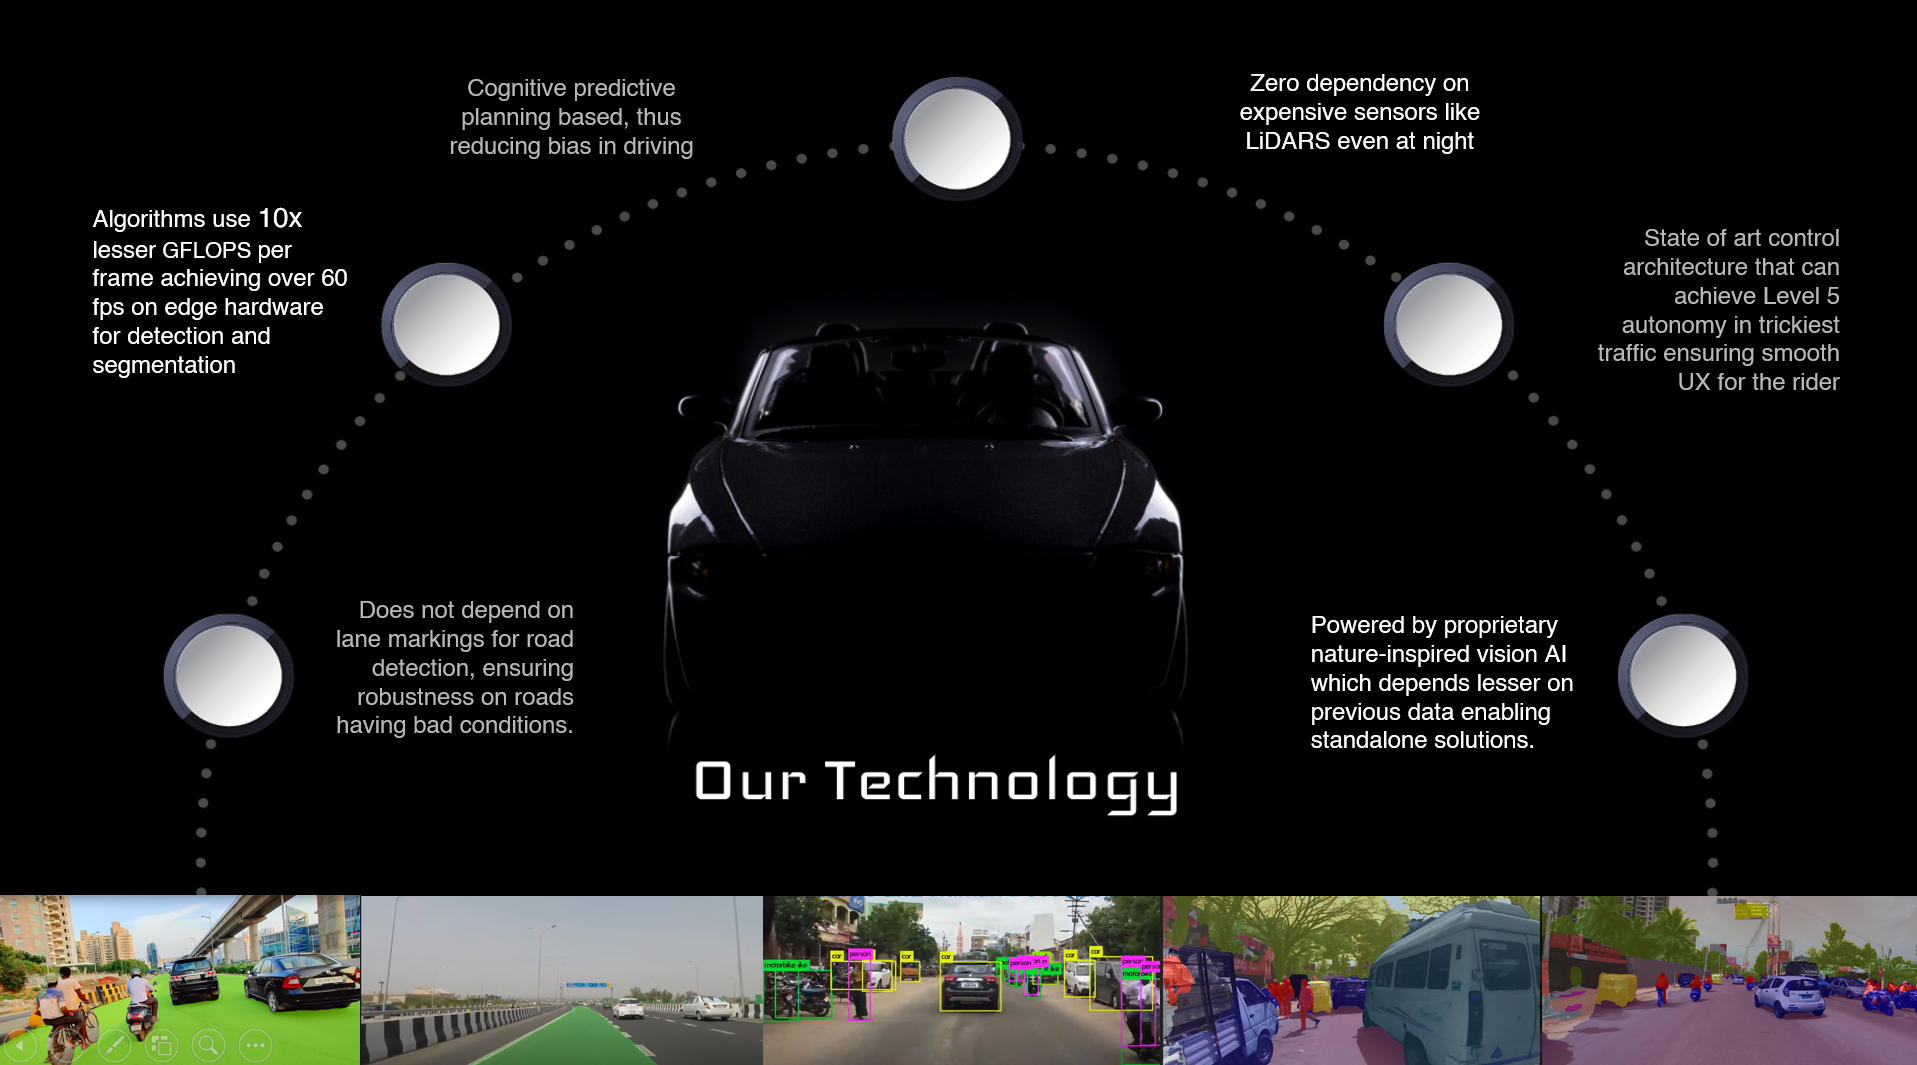
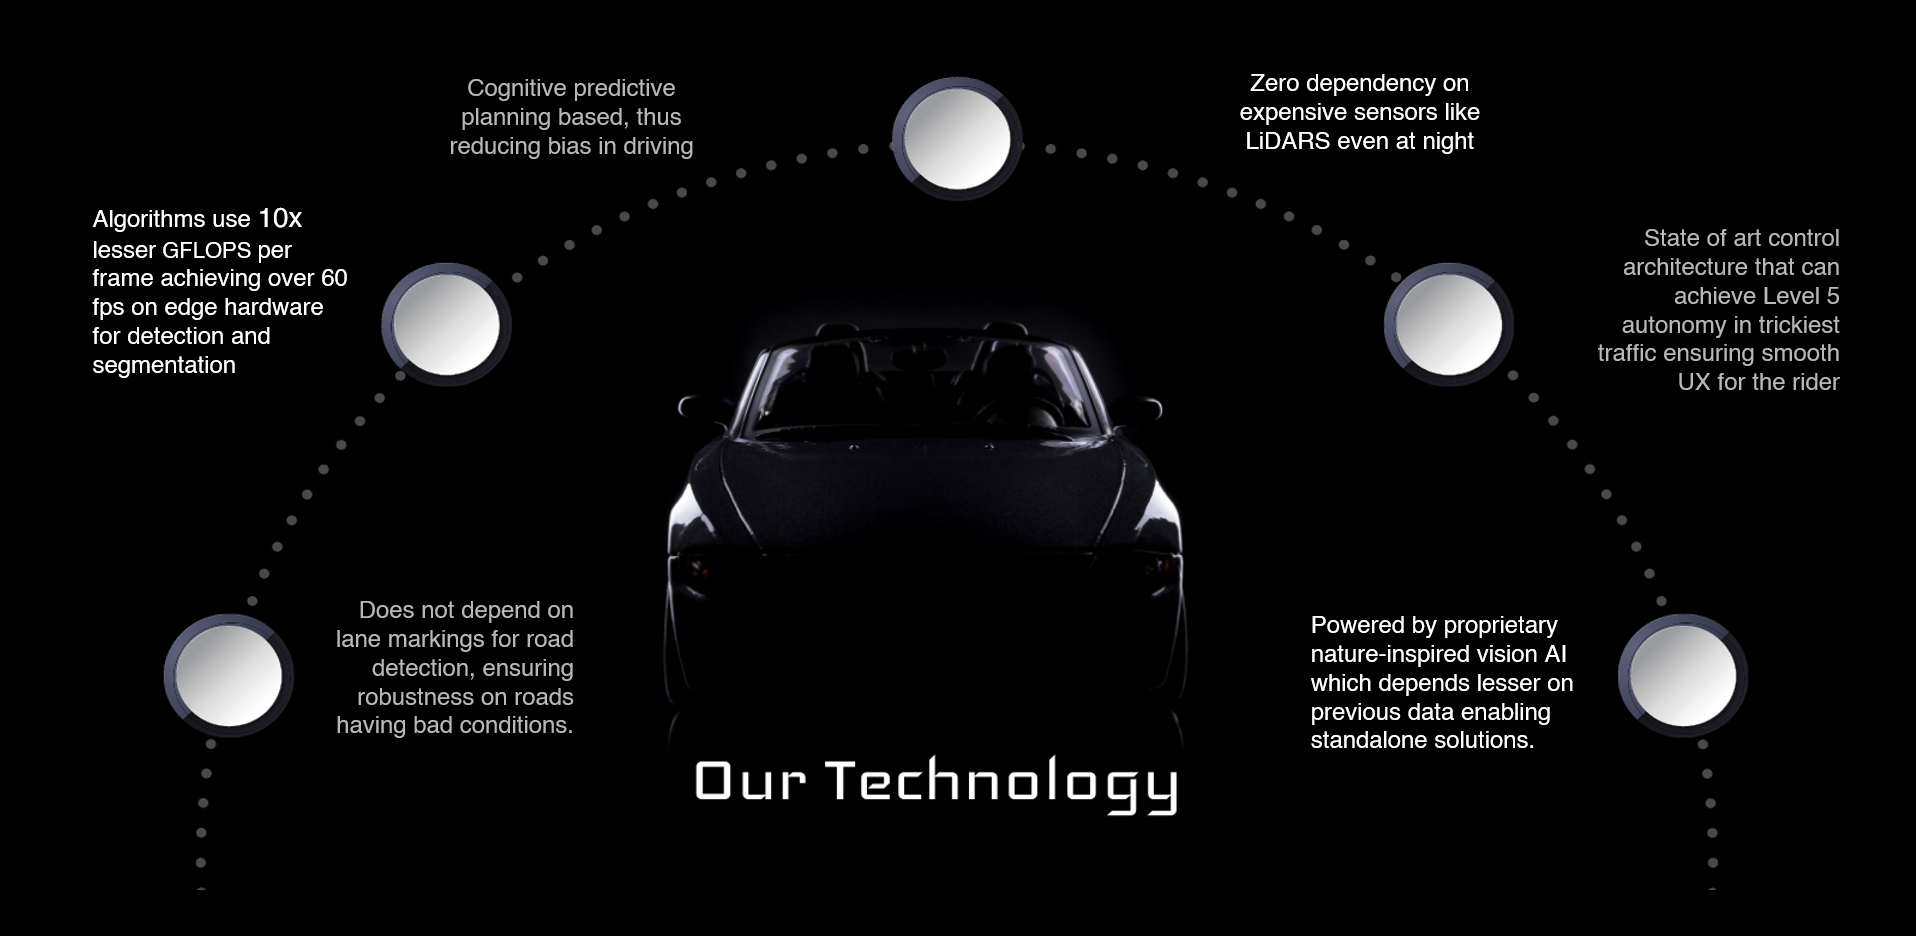
x

diff --git a/index.html b/index.html
@@ -50,7 +50,7 @@
                         </ul>
                         <ul class="nav navbar-nav">
                             <li class="nav-item"><a class="nav-link active text-center" data-bs-hover-animate="pulse" href="about">About</a></li>
-                            <li class="nav-item"><a class="nav-link" href="http://blog.minuszero.in">BLOG</a></li>
+                            <li class="nav-item"></li>
                             <li class="nav-item"><a class="nav-link active text-center" data-bs-hover-animate="pulse" href="careers">Careers</a></li>
                             <li class="nav-item"><a class="nav-link active" data-bs-hover-animate="pulse" href="contact" style="text-align: center;">Contact</a></li>
                         </ul>
@@ -74,18 +74,25 @@
         <div class="container" data-aos="flip-up">
             <div class="photo-card">
                 <div class="photo-background" style="background-image: url(&quot;assets/img/car.jpeg&quot;);padding: 0;filter: brightness(135%) contrast(100%) grayscale(43%) saturate(85%);"></div>
-                <p class="lead text-left" data-aos="fade-up" data-aos-duration="150" data-aos-delay="150" style="font-size: 21px;margin-top: 42px;color: #ffffff;margin-bottom: 19px;margin-right: 22px;margin-left: 33px;font-family: Montserrat, sans-serif;text-align: center;"><strong>✔&nbsp;&nbsp;</strong>Extremely affordable<br><strong>✔&nbsp;&nbsp;</strong>Level 5 autonomy in Indian traffic<br><strong>✔&nbsp;&nbsp;</strong>Energy-efficient long range electric cars</p>
+                <p class="lead text-left" data-aos="fade-up" data-aos-duration="150" data-aos-delay="150" style="font-size: 20px;margin-top: 42px;color: #ffffff;margin-bottom: 19px;margin-right: 22px;margin-left: 33px;font-family: Montserrat, sans-serif;text-align: center;"><strong>✔&nbsp;&nbsp;</strong>Extremely affordable<br><strong>✔&nbsp;&nbsp;</strong>Level 5 autonomy in Indian traffic<br><strong>✔&nbsp;&nbsp;</strong>Energy-efficient long range electric cars</p>
             </div>
         </div>
     </section>
     <div>
-        <div class="container-fluid" style="padding: 0px;">
+        <div class="container" style="padding: 0px;">
             <div class="row no-gutters justify-content-center align-items-center">
-                <div class="col-auto col-md-12 col-xl-12 align-self-center"><img class="img-fluid" src="assets/img/tech.png" style="margin-top: 35px;"></div>
+                <div class="col-auto col-md-12 col-xl-12 align-self-center"><img class="rounded img-fluid" src="assets/img/tech.png" style="margin-top: 46px;"></div>
             </div>
         </div>
     </div>
-    <h2 class="text-center" data-aos="zoom-in-up" style="font-family: Iceland, cursive;font-size: 38px;border-color: rgb(58,188,149);color: rgb(255,255,255);margin-top: 54px;">Our Culture<br></h2>
+    <div>
+        <div class="container-fluid" style="padding: 0px;">
+            <div class="row no-gutters justify-content-center align-items-center">
+                <div class="col-auto col-md-12 col-xl-12 align-self-center"><img class="rounded img-fluid" src="assets/img/tech2.png"></div>
+            </div>
+        </div>
+    </div>
+    <h2 class="text-center" data-aos="zoom-in-up" style="font-family: Iceland, cursive;font-size: 38px;border-color: rgb(58,188,149);color: rgb(255,255,255);margin-top: 82px;">Our Culture<br></h2>
     <div id="vision" class="features-blue" style="border-color: #424f52;margin-bottom: 12px;padding-right: 30px;padding-left: 30px;background: rgb(7,7,7);margin-top: 19px;">
         <div class="container">
             <div class="intro"></div>
@@ -150,6 +157,7 @@
     </div>
     <script src="https://cdnjs.cloudflare.com/ajax/libs/jquery/3.5.1/jquery.min.js"></script>
     <script src="https://cdnjs.cloudflare.com/ajax/libs/twitter-bootstrap/4.5.3/js/bootstrap.bundle.min.js"></script>
+    <script src="assets/js/smart-forms.min.js"></script>
     <script src="https://cdnjs.cloudflare.com/ajax/libs/aos/2.3.4/aos.js"></script>
     <script src="https://cdn.datatables.net/1.10.15/js/dataTables.bootstrap.min.js"></script>
     <script src="https://cdnjs.cloudflare.com/ajax/libs/jquery.tablesorter/2.31.2/js/jquery.tablesorter.js"></script>
